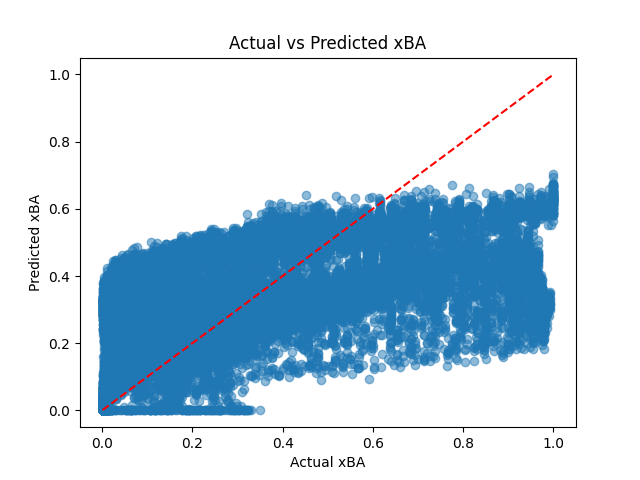
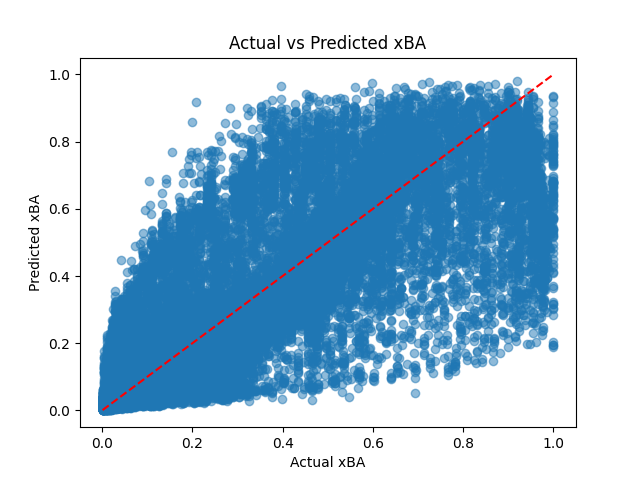
Added polynomial features, scaling, and thresholding for classification model - results much improved

diff --git a/scripts/xba_classification.py b/scripts/xba_classification.py
@@ -1,27 +1,59 @@
 import pandas as pd
 from sklearn.model_selection import train_test_split
+from sklearn.preprocessing import StandardScaler, PolynomialFeatures
+from sklearn.pipeline import Pipeline
 from sklearn.linear_model import LogisticRegression
-from sklearn.metrics import confusion_matrix, classification_report, roc_curve
+from sklearn.metrics import confusion_matrix, classification_report, roc_auc_score, roc_curve, f1_score
 import matplotlib.pyplot as plt
 
+# Load data
 data = pd.read_parquet("data/2025_hits.parquet")
-X = data[['launch_speed', 'launch_angle', 'hit_distance', 'hit_location_x', 'hit_location_y', 'pitch_speed', 'release_spin_rate']]
+X = data[['launch_speed', 'launch_angle', 'hit_distance',
+          'hit_location_x', 'hit_location_y',
+          'pitch_speed', 'release_spin_rate']]
 y = data['hit']
-X_train, X_test, y_train, y_test = train_test_split(X, y, test_size=0.2, random_state=42)
-model = LogisticRegression(max_iter=1000)
-model.fit(X_train, y_train)
-y_pred = model.predict(X_test)
 
-conf_matrix = confusion_matrix(y_test, y_pred)
+X_train, X_test, y_train, y_test = train_test_split(
+    X, y, test_size=0.2, random_state=42
+)
+
+model = Pipeline([
+    ('poly', PolynomialFeatures(degree=2, include_bias=False)),
+    ('scaler', StandardScaler()),
+    ('clf', LogisticRegression(max_iter=1000, class_weight='balanced'))
+])
+model.fit(X_train, y_train)
+
+# Get probabilities instead of predictions
+y_probs = model.predict_proba(X_test)[:, 1]
+
+# # Model Evaluation - Adjust threshold for classification (default is 0.5) maximizing F1 score
+thresholds = [i / 100 for i in range(10, 91)]  # 0.10 → 0.90
+best_threshold = None
+best_f1 = -1
+best_metrics = None
+for t in thresholds:
+    y_pred = (y_probs > t).astype(int)
+    f1 = f1_score(y_test, y_pred)
+    if f1 > best_f1:
+        best_f1 = f1
+        best_threshold = t
+        best_metrics = confusion_matrix(y_test, y_pred)
+
+print(f"Best Threshold: {best_threshold}")
+
 print("Confusion Matrix:")
 print("[[TN, FP]")
 print(" [FN, TP]]")
-print(conf_matrix)
-class_report = classification_report(y_test, y_pred)
-print("Classification Report:")
-print(class_report)
+print(best_metrics)
 
-fpr, tpr, _ = roc_curve(y_test, y_pred)
+print("\nClassification Report:")
+print(classification_report(y_test, y_pred))
+
+roc_auc = roc_auc_score(y_test, y_probs)
+print(f"ROC-AUC Score: {roc_auc}")
+
+fpr, tpr, _ = roc_curve(y_test, y_probs)
 plt.plot(fpr, tpr)
 plt.plot([0, 1], [0, 1], linestyle='--')
 plt.xlabel("False Positive Rate")

diff --git a/scripts/xBA_regression.py b/scripts/xBA_regression.py
@@ -1,25 +1,46 @@
 import pandas as pd
+import numpy as np
 from sklearn.model_selection import train_test_split
+from sklearn.preprocessing import StandardScaler, PolynomialFeatures
+from sklearn.pipeline import Pipeline
 from sklearn.linear_model import LinearRegression
 from sklearn.metrics import mean_squared_error, r2_score
 import matplotlib.pyplot as plt
 
+# Load data
 data = pd.read_parquet("data/2025_hits.parquet")
-X = data[['launch_speed', 'launch_angle', 'hit_distance', 'hit_location_x', 'hit_location_y', 'pitch_speed', 'release_spin_rate']]
+X = data[['launch_speed', 'launch_angle', 'hit_distance',
+          'hit_location_x', 'hit_location_y',
+          'pitch_speed', 'release_spin_rate']]
 y = data['xBA']
-X_train, X_test, y_train, y_test = train_test_split(X, y, test_size=0.2, random_state=42)
-model = LinearRegression()
+
+epsilon = 1e-6
+y_clipped = np.clip(y, epsilon, 1 - epsilon)
+y_logit = np.log(y_clipped / (1 - y_clipped))
+
+X_train, X_test, y_train, _ = train_test_split(X, y_logit, test_size=0.2, random_state=42)
+
+# Get original y values for test set using the same indices
+_, _, _, y_test_original = train_test_split(X, y, test_size=0.2, random_state=42)
+
+model = Pipeline([
+    ('poly', PolynomialFeatures(degree=2, include_bias=False)),
+    ('scaler', StandardScaler()),
+    ('reg', LinearRegression())
+])
 model.fit(X_train, y_train)
-y_pred = model.predict(X_test)
-y_pred = [max(0, min(pred, 1)) for pred in y_pred]
-mse = mean_squared_error(y_test, y_pred)
-r2 = r2_score(y_test, y_pred)
+
+y_pred_logit = model.predict(X_test)
+y_pred = 1 / (1 + np.exp(-y_pred_logit)) # Sigmoid activation function
+
+# Model Evaluation
+mse = mean_squared_error(y_test_original, y_pred)
+r2 = r2_score(y_test_original, y_pred)
+
 print(f"Mean Squared Error: {mse}")
 print(f"R^2 Score: {r2}")
-coefficients = pd.DataFrame(model.coef_, X.columns, columns=['Coefficient'])
-print(coefficients)
 
-plt.scatter(y_test, y_pred, alpha=0.5)
+plt.scatter(y_test_original, y_pred, alpha=0.5)
 plt.plot([y.min(), y.max()], [y.min(), y.max()], 'r--')
 plt.xlabel('Actual xBA')
 plt.ylabel('Predicted xBA')